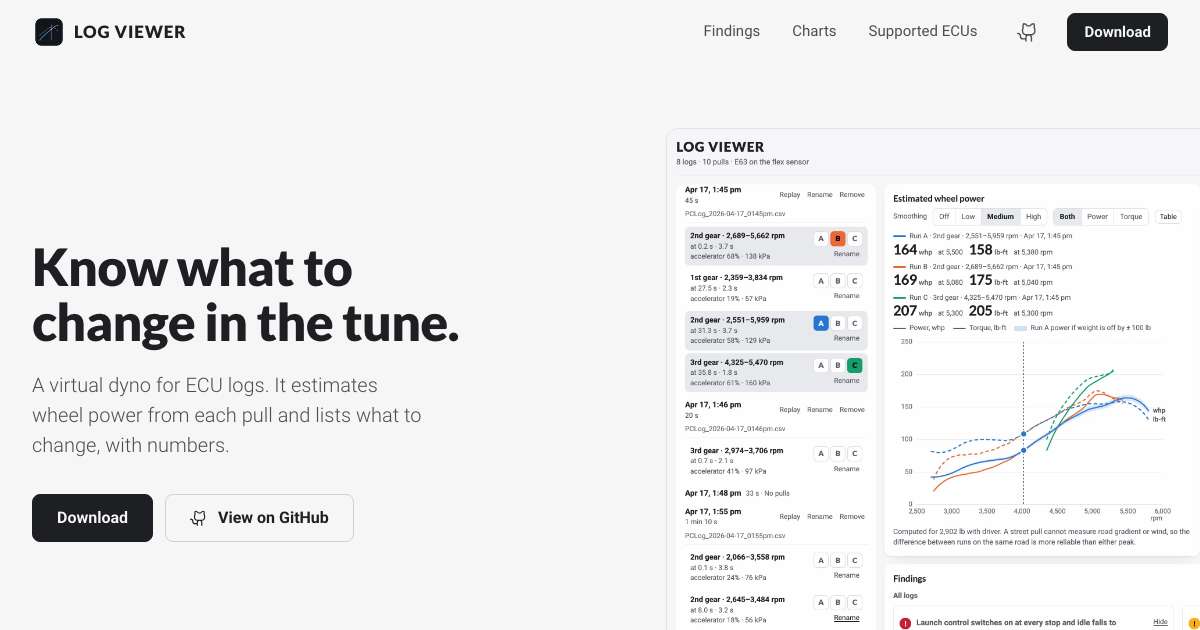
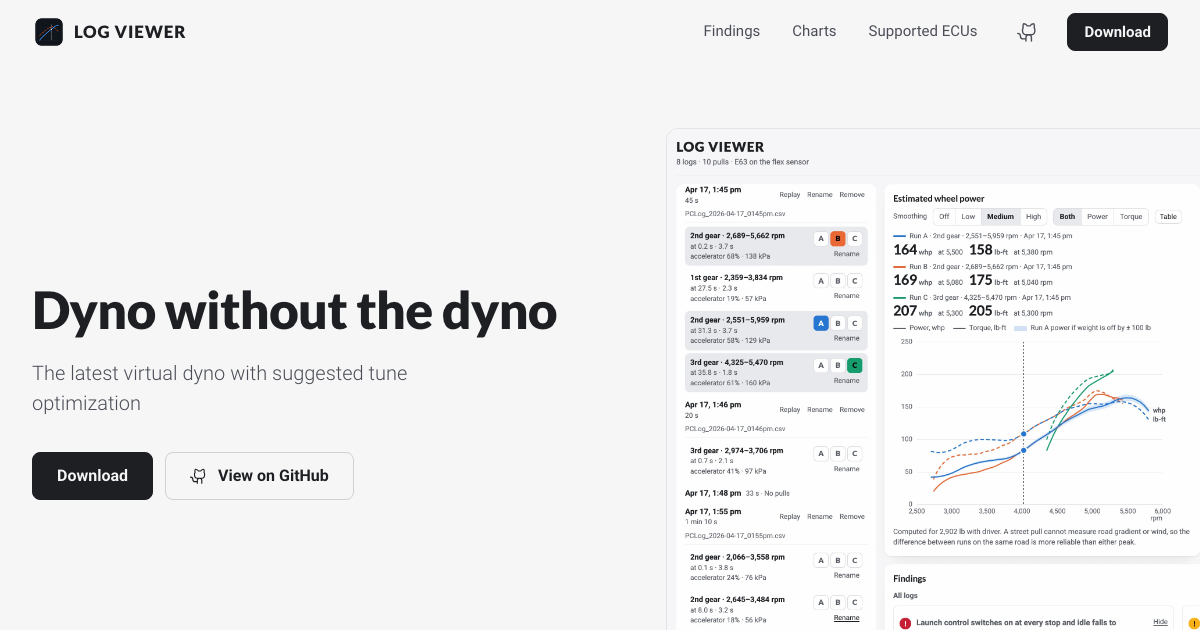
Site: "Dyno without the dyno"
The headline and the line under it are the owner's new copy. The link
preview is a picture of the top of the page, so it is retaken with them.

Changed region(s): [[0.0308, 0.3921, 0.4625, 0.6635], [0.0, 0.6937, 0.2775, 0.8746]]

diff --git a/site/index.html b/site/index.html
@@ -75,8 +75,8 @@
       <section class="hero">
         <div class="wrap hero-grid">
           <div class="hero-copy">
-            <h1>Know what to change in the tune.</h1>
-            <p class="lede">A virtual dyno for ECU logs. It estimates wheel power from each pull and lists what to change, with numbers.</p>
+            <h1>Dyno without the dyno</h1>
+            <p class="lede">The latest virtual dyno with suggested tune optimization</p>
             <div class="cta">
               <a class="btn primary" href="#download">Download</a>
               <a class="btn" href="https://github.com/alecholmez/log-viewer">
